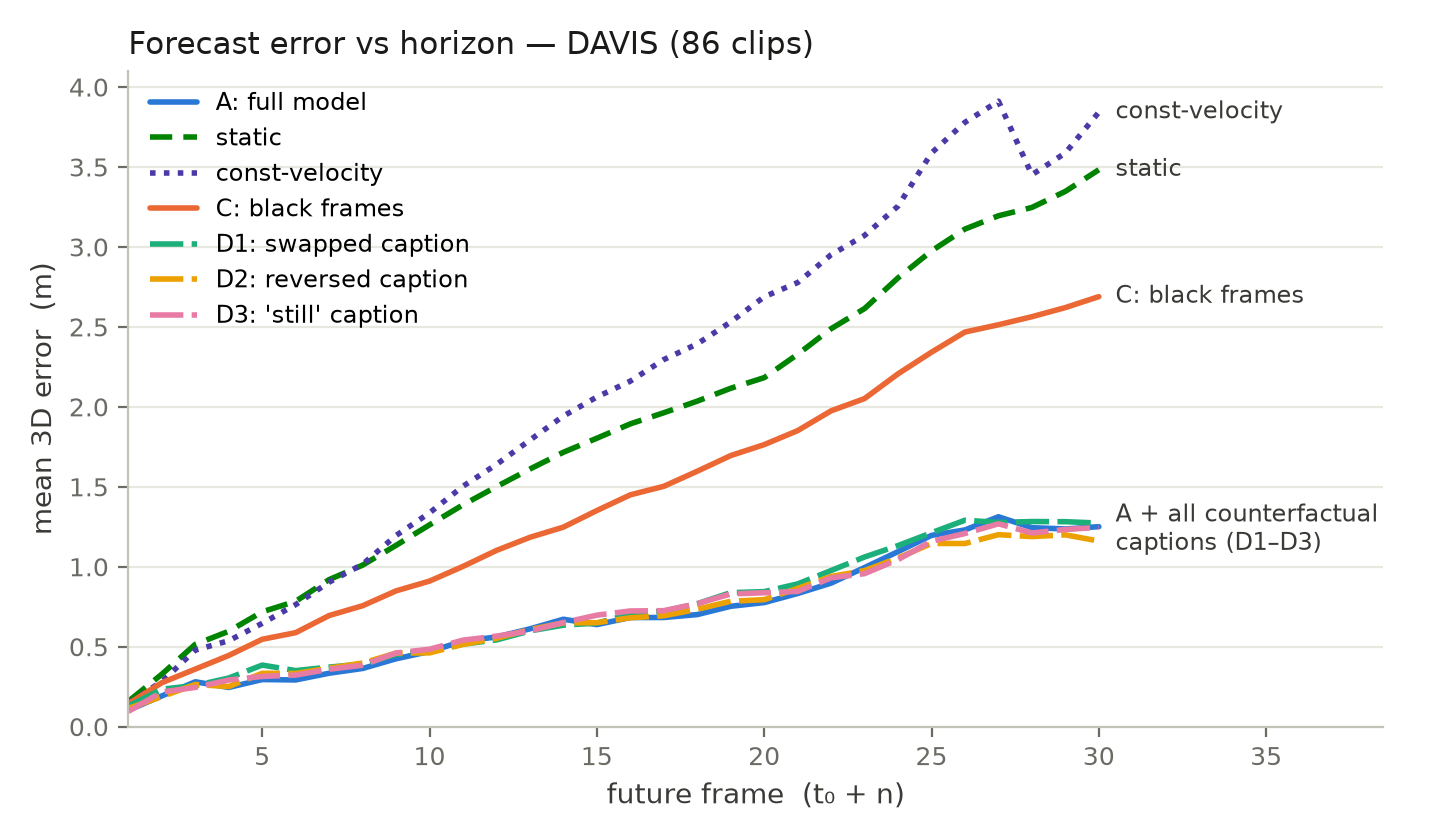
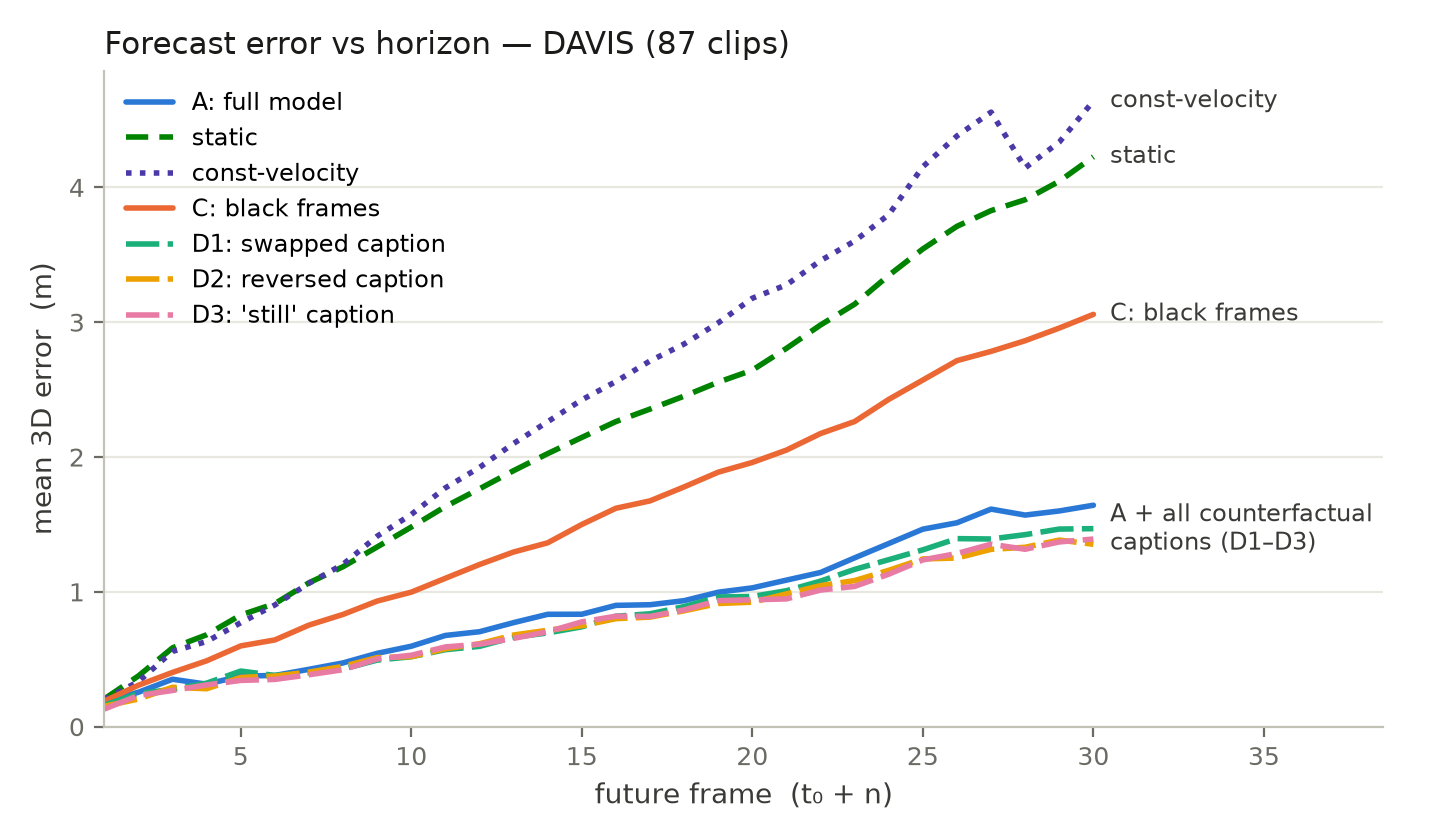
All tests: no-exclusion numbers aligned with paper protocol

diff --git a/test3.html b/test3.html
@@ -11,20 +11,21 @@
 </style></head><body>
 <!--NAV--><div style="display:flex;gap:6px;flex-wrap:wrap;margin:0 0 14px 0;padding-bottom:12px;border-bottom:1px solid #e2e2e2;font-family:-apple-system,BlinkMacSystemFont,'Segoe UI',Helvetica,Arial,sans-serif"><a href="index.html" style="background:#fff;color:#333;text-decoration:none;font-size:12.5px;padding:5px 12px;border:1px solid #d8d8d4;border-radius:6px;white-space:nowrap">EgoDex demo</a><a href="test3.html" style="background:#333;color:#fff;text-decoration:none;font-size:12.5px;padding:5px 12px;border:1px solid #d8d8d4;border-radius:6px;white-space:nowrap">T1+T3 · Ablations & horizon</a><a href="test2p.html" style="background:#fff;color:#333;text-decoration:none;font-size:12.5px;padding:5px 12px;border:1px solid #d8d8d4;border-radius:6px;white-space:nowrap">T2 · Deformable / multi-object</a><a href="test5.html" style="background:#fff;color:#333;text-decoration:none;font-size:12.5px;padding:5px 12px;border:1px solid #d8d8d4;border-radius:6px;white-space:nowrap">T5 · Static points</a><a href="test6.html" style="background:#fff;color:#333;text-decoration:none;font-size:12.5px;padding:5px 12px;border:1px solid #d8d8d4;border-radius:6px;white-space:nowrap">T6 · Video generation</a><a href="picker.html" style="background:#fff;color:#333;text-decoration:none;font-size:12.5px;padding:5px 12px;border:1px solid #d8d8d4;border-radius:6px;white-space:nowrap">Point picker</a></div><!--/NAV-->
 <h1>Tests 1 + 3 — language ablations &amp; error-vs-horizon (full runs)</h1>
-<div id="sub">PointMotionBench-DAVIS &middot; 86 clips (paragliding excluded: degenerate-depth outlier, ADE 15.8 m) &middot; 24 points/clip &middot; fixed t&#8320; &middot; MolmoMotion-4B-H3-F30</div>
+<div id="sub">PointMotionBench-DAVIS &middot; all 87 evaluable clips (no exclusions — aligned with the paper protocol) &middot; 24 points/clip &middot; fixed t&#8320; &middot; MolmoMotion-4B-H3-F30</div>
 <table>
 <tr><th>Condition</th><th>ADE &darr;</th><th>FDE &darr;</th><th>PWT &uarr;</th><th>clip-mean ADE</th><th>clip-median ADE</th></tr>
-<tr><td>A — full model (true caption)</td><td>0.686</td><td>1.404</td><td><b>0.177</b></td><td>0.707</td><td><b>0.431</b></td></tr>
-<tr><td>C — black history frames (vision removed)</td><td>1.401</td><td>2.845</td><td>0.091</td><td>1.421</td><td>0.897</td></tr>
-<tr><td>D1 — swapped caption (wrong object+action)</td><td>0.716</td><td>1.427</td><td><b>0.177</b></td><td>0.743</td><td><b>0.431</b></td></tr>
-<tr><td>D2 — direction-reversed caption</td><td><b>0.680</b></td><td><b>1.298</b></td><td>0.173</td><td><b>0.705</b></td><td>0.465</td></tr>
-<tr><td>D3 — "remains completely still" caption</td><td>0.697</td><td>1.370</td><td><b>0.177</b></td><td>0.726</td><td>0.435</td></tr>
+<tr><td>A — full model (true caption)</td><td>0.877</td><td>1.733</td><td>0.174</td><td>0.880</td><td>0.435</td></tr>
+<tr><td>C — black history frames (vision removed)</td><td>1.553</td><td>3.152</td><td>0.090</td><td>1.558</td><td>0.929</td></tr>
+<tr><td>D1 — swapped caption (wrong object+action)</td><td>0.798</td><td>1.596</td><td><b>0.175</b></td><td>0.816</td><td><b>0.431</b></td></tr>
+<tr><td>D2 — direction-reversed caption</td><td>0.767</td><td><b>1.466</b></td><td>0.171</td><td><b>0.783</b></td><td>0.474</td></tr>
+<tr><td>D3 — "remains completely still" caption</td><td><b>0.764</b></td><td>1.498</td><td><b>0.175</b></td><td>0.787</td><td>0.441</td></tr>
 </table>
 <img src="data/horizon_curve.png" alt="mean 3D error vs forecast horizon">
-<p><b>Reading:</b> removing vision (C) doubles the error (clip-median 0.897 vs 0.431), while ALL three
-adversarial-caption conditions — wrong object+action (D1), reversed direction (D2), and an explicit
-"remains completely still" (D3) — stay within &plusmn;0.036 ADE of the true caption (clip-medians
-0.431&ndash;0.465). On real video the model's predictions are driven by visual dynamics, not caption
-templates. The model beats static and constant-velocity extrapolation by ~2.8&times; at the
-30-frame horizon (1.25 m vs 3.48/3.84 m).</p>
+<p><b>Reading:</b> removing vision (C) nearly doubles the error (ADE 1.55 vs 0.88; clip-median
+0.93 vs 0.44), while ALL three adversarial-caption conditions — wrong object+action (D1), reversed
+direction (D2), and an explicit "remains completely still" (D3) — track the true caption within
+0.11 ADE (clip-medians 0.43&ndash;0.47). On real video the model's predictions are driven by
+visual dynamics, not caption templates. (Absolute DAVIS numbers are heavy-tailed; a single
+degenerate-depth clip, paragliding, contributes disproportionately to the means — medians shown
+alongside.)</p>
 </body></html>

diff --git a/test5.html b/test5.html
@@ -10,16 +10,17 @@
 </style></head><body>
 <!--NAV--><div style="display:flex;gap:6px;flex-wrap:wrap;margin:0 0 14px 0;padding-bottom:12px;border-bottom:1px solid #e2e2e2;font-family:-apple-system,BlinkMacSystemFont,'Segoe UI',Helvetica,Arial,sans-serif"><a href="index.html" style="background:#fff;color:#333;text-decoration:none;font-size:12.5px;padding:5px 12px;border:1px solid #d8d8d4;border-radius:6px;white-space:nowrap">EgoDex demo</a><a href="test3.html" style="background:#fff;color:#333;text-decoration:none;font-size:12.5px;padding:5px 12px;border:1px solid #d8d8d4;border-radius:6px;white-space:nowrap">T1+T3 · Ablations & horizon</a><a href="test2p.html" style="background:#fff;color:#333;text-decoration:none;font-size:12.5px;padding:5px 12px;border:1px solid #d8d8d4;border-radius:6px;white-space:nowrap">T2 · Deformable / multi-object</a><a href="test5.html" style="background:#333;color:#fff;text-decoration:none;font-size:12.5px;padding:5px 12px;border:1px solid #d8d8d4;border-radius:6px;white-space:nowrap">T5 · Static points</a><a href="test6.html" style="background:#fff;color:#333;text-decoration:none;font-size:12.5px;padding:5px 12px;border:1px solid #d8d8d4;border-radius:6px;white-space:nowrap">T6 · Video generation</a><a href="picker.html" style="background:#fff;color:#333;text-decoration:none;font-size:12.5px;padding:5px 12px;border:1px solid #d8d8d4;border-radius:6px;white-space:nowrap">Point picker</a></div><!--/NAV-->
 <h1>Test 5 — does the model keep static background points static?</h1>
-<div id="sub">87 DAVIS clips (paragliding excluded: degenerate depth) &middot; 8 background points/clip (auto-placed, MoGe-lifted, scale-aligned) &middot; drift = ||p&#770;<sub>t</sub> &minus; p<sub>t&#8320;</sub>|| at t&#8320;+30 &middot; GT = zero motion in camera-frame-at-t&#8320;</div>
+<div id="sub">87 DAVIS clips (no exclusions) &middot; 8 background points/clip (auto-placed, MoGe-lifted, scale-aligned) &middot; drift = ||p&#770;<sub>t</sub> &minus; p<sub>t&#8320;</sub>|| at t&#8320;+30 &middot; GT = zero motion in camera-frame-at-t&#8320;</div>
 <table>
 <tr><th>Config</th><th>median drift (cm)</th><th>p90 (cm)</th><th>mean (cm)</th><th>&le;1 cm</th><th>&le;2 cm</th><th>&le;5 cm</th></tr>
-<tr><td>bg-only + action caption</td><td><b>0.040</b></td><td><b>0.095</b></td><td><b>5.2</b></td><td><b>97%</b></td><td><b>97%</b></td><td><b>98%</b></td></tr>
-<tr><td>bg-only + neutral caption</td><td>0.050</td><td>0.44</td><td>6.0</td><td>91%</td><td>91%</td><td>94%</td></tr>
-<tr><td>mixed 4 obj + 4 bg, action caption</td><td>0.060</td><td>4.5</td><td>18.2</td><td>80%</td><td>84%</td><td>91%</td></tr>
+<tr><td>bg-only + action caption</td><td><b>0.040</b></td><td><b>0.116</b></td><td><b>799</b></td><td><b>95%</b></td><td><b>95%</b></td><td><b>97%</b></td></tr>
+<tr><td>bg-only + neutral caption</td><td>0.050</td><td>1.29</td><td>800</td><td>90%</td><td>90%</td><td>93%</td></tr>
+<tr><td>mixed 4 obj + 4 bg, action caption</td><td>0.060</td><td>6.91</td><td>814</td><td>79%</td><td>83%</td><td>90%</td></tr>
 </table>
 <p><b>Headline:</b> for the typical clip the model predicts background points as <b>perfectly static</b>
-(median drift &lt;0.1 cm over 30 frames; 97% of clips within 1 cm in the bg-only/action config).
-The mean is dominated by a structured tail of ~19 clips, which decomposes into two phenomena:</p>
+(median drift &lt;0.1 cm over 30 frames; 95% of clips within 1 cm in the bg-only/action config).
+The mean is dominated by a heavy tail — chiefly the degenerate-depth clip paragliding (&asymp;690 m
+at extreme depth) plus ~19 structured outliers decomposing into:</p>
 <ul>
 <li><b>Camera motion / degenerate scenes</b> (night-race 393 cm, bus, tuk-tuk, upside-down, stroller):
 "static in camera-frame-at-t&#8320;" requires implicit camera-motion estimation; strong ego-motion or
